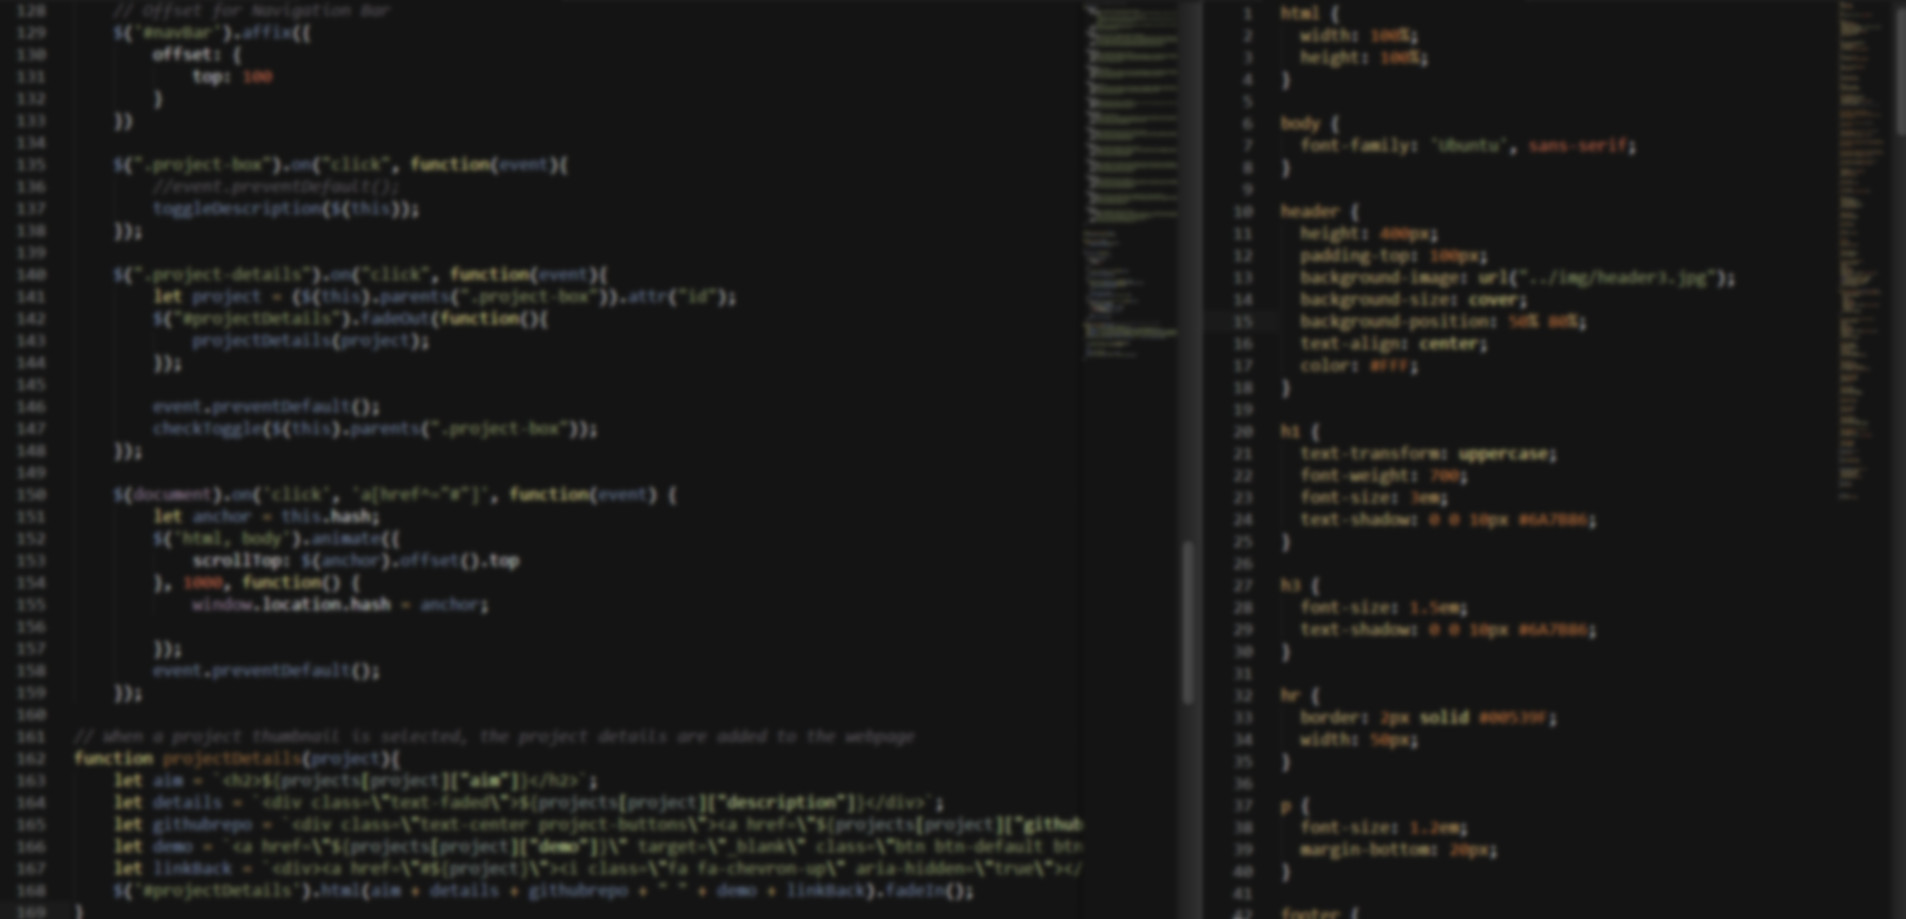
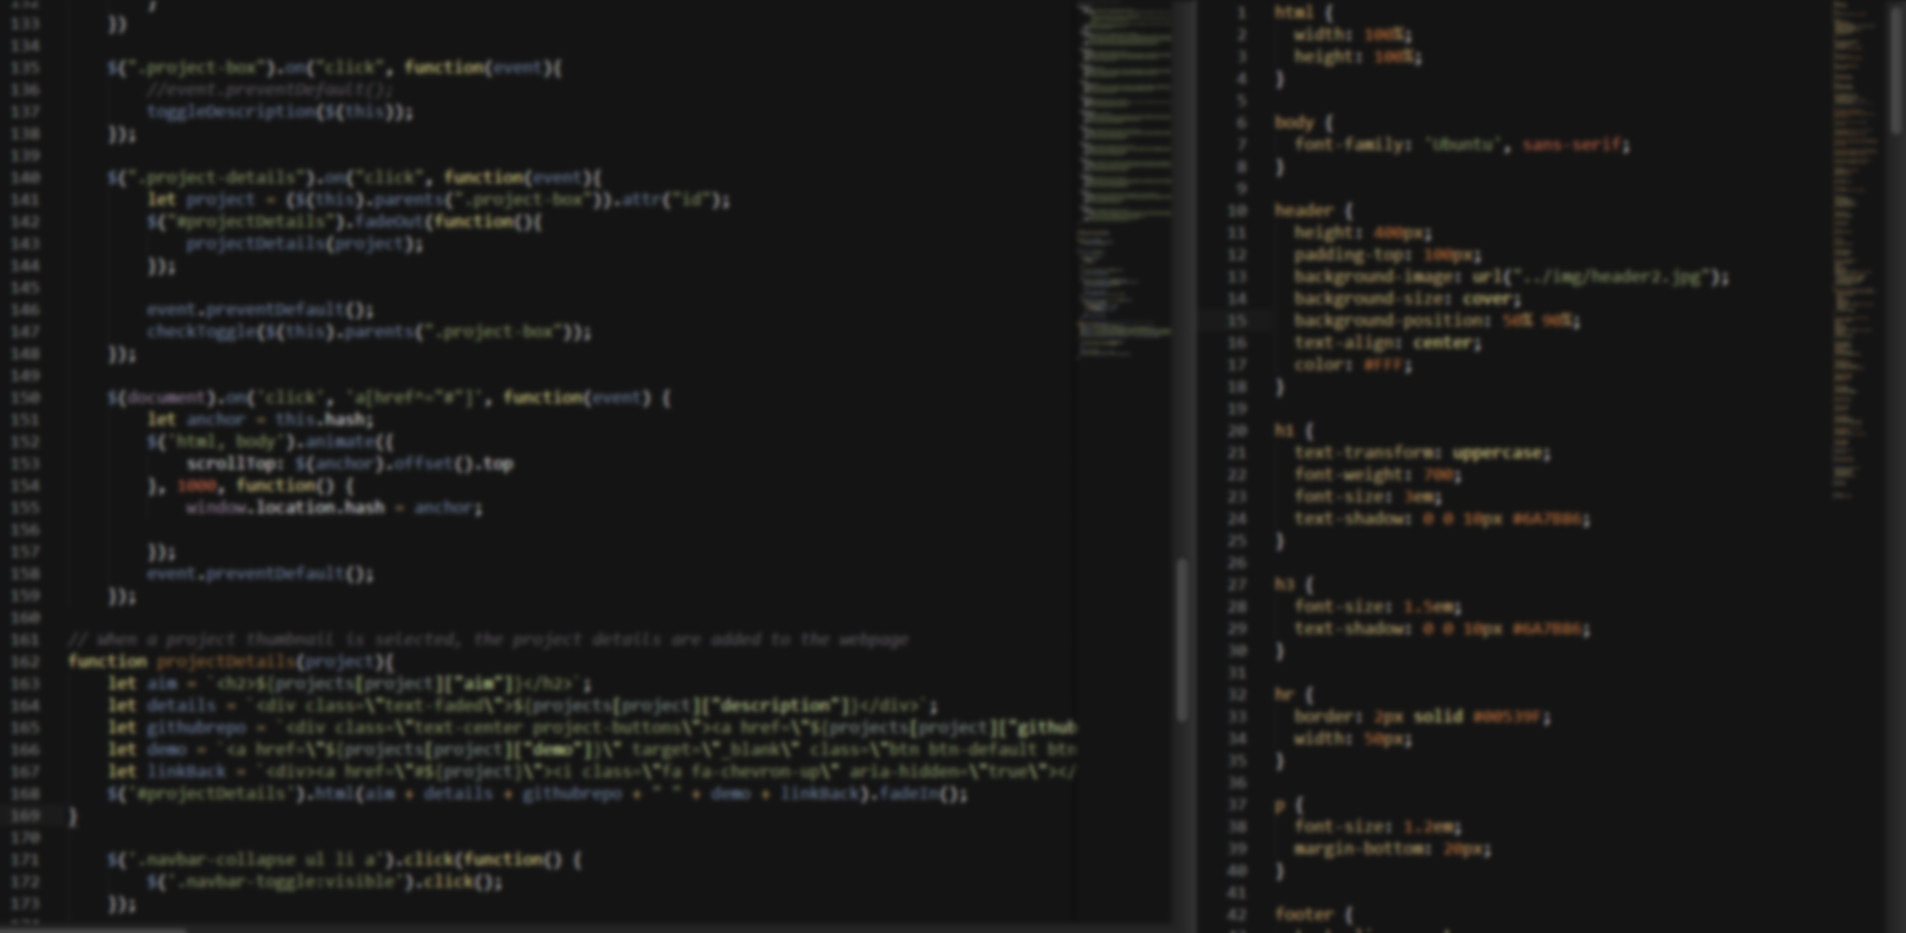
Change header background image position

diff --git a/css/portfolio.css b/css/portfolio.css
@@ -12,7 +12,7 @@ header {
   padding-top: 100px;
   background-image: url("../img/header2.jpg");
   background-size: cover;
-  background-position: 50% 90%;
+  background-position: 50% 80%;
   text-align: center;
   color: #FFF;
 }
